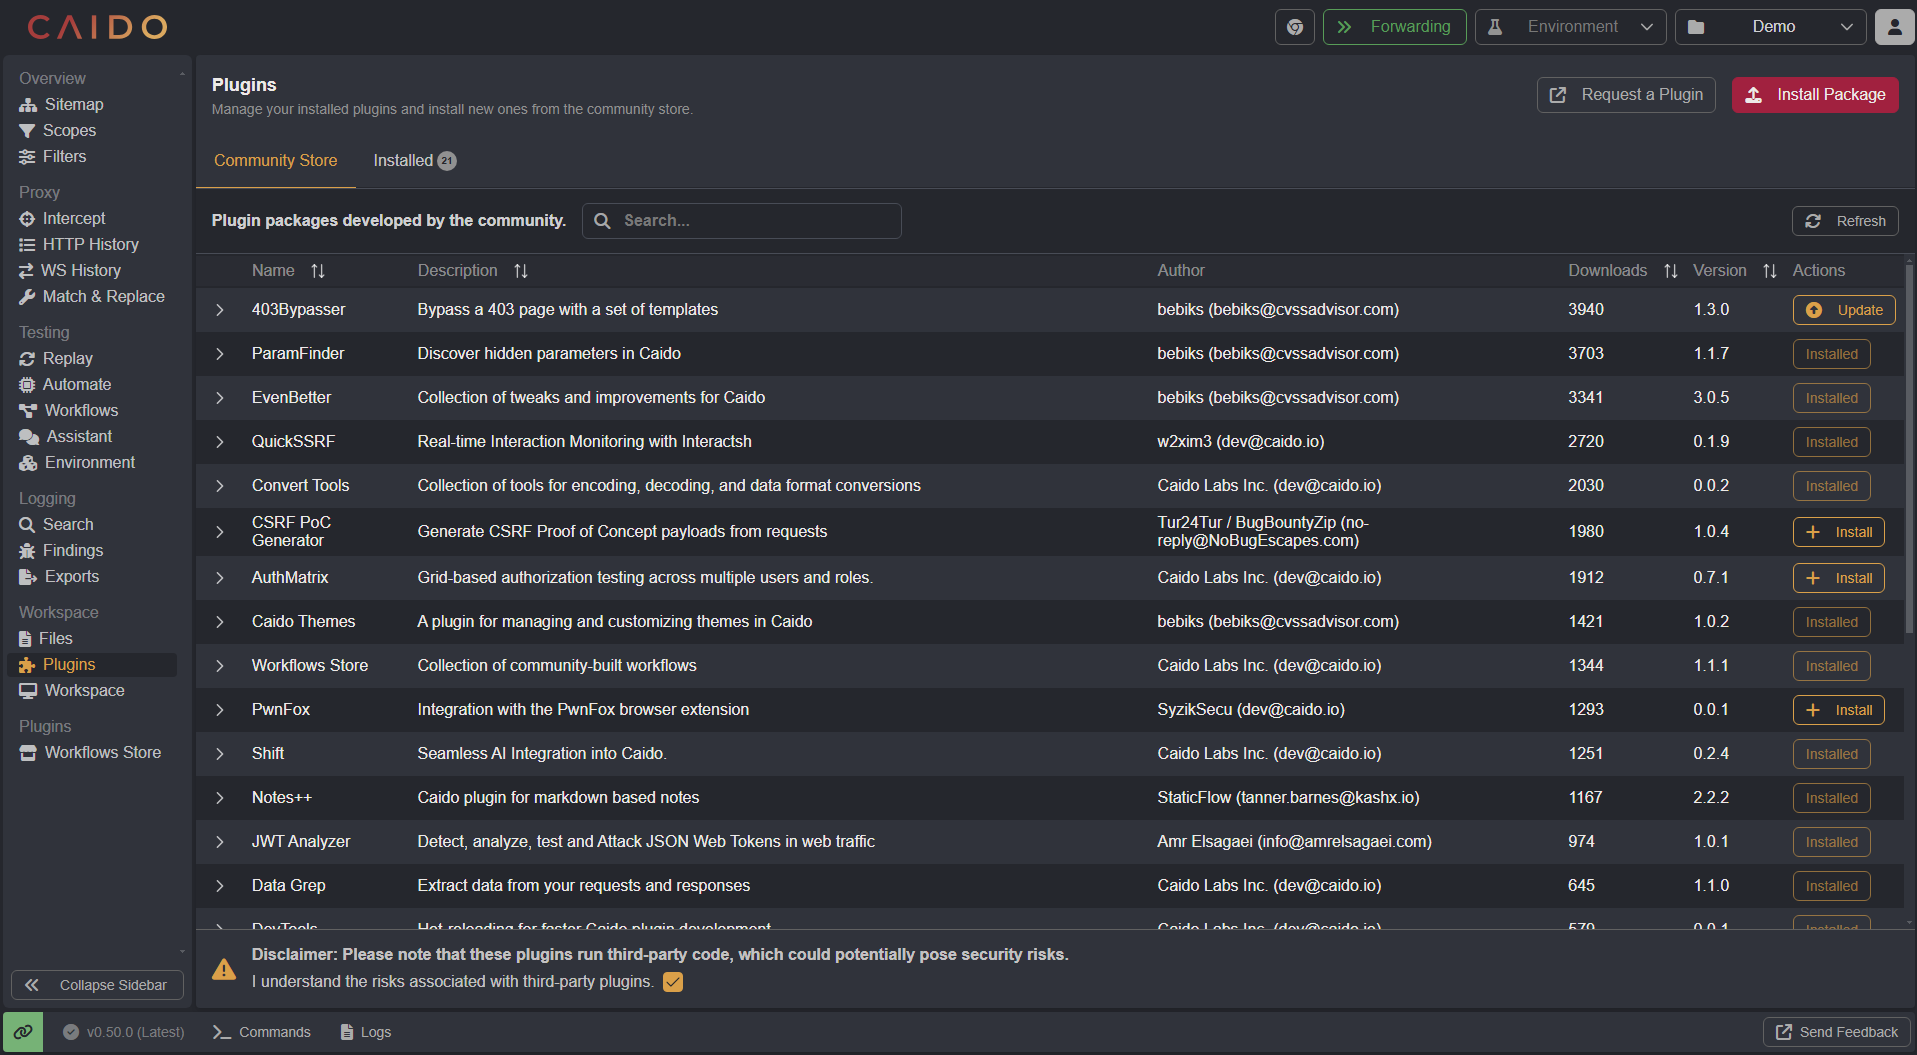
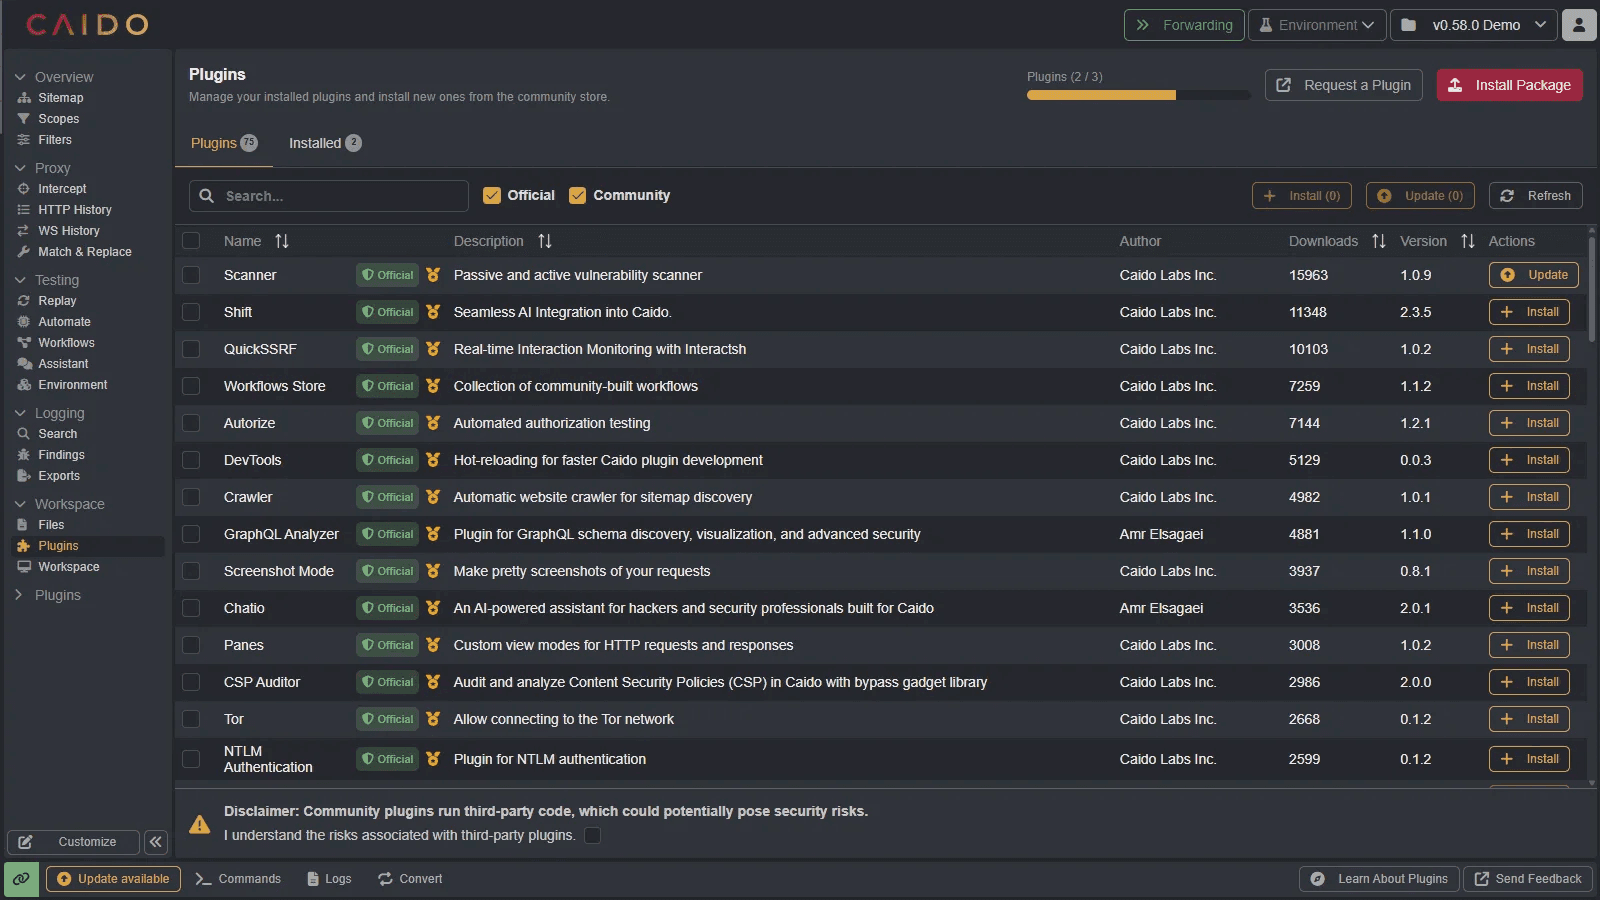
Added an Browse Plugins section and updated the image of the Plugin I… (#394)
* Added an Browse Plugins section and updated the image of the Plugin Interface

* Optimised images with calibre/image-actions

* Added HTTPQL headers clause in user documentation (#392)

* Added HTTPQL headers clause in user documentation

* Removed trailing whitespaces at the end-of-line

* Added changes suggested by Copilot

* Optimised images with calibre/image-actions

---------

diff --git a/src/app/guides/plugins_installing.md b/src/app/guides/plugins_installing.md
@@ -4,8 +4,13 @@ description: "A step-by-step guide to installing plugins in Caido from the Commu
 
 # Installing Plugins
 
+To install a plugin, either:
+
+- **Click** on the <code><Icon icon="fas fa-upload" /> Install Package</code> button and select a plugin `plugin_package.zip` file.
+- Or **click** on the `+ Install` button associated with a plugin available in the Community Store.
+
 ::: warning
-Plugins available in the Community Store run third-party code, which could potentially pose security risks. Before you can access the Community Store, you must **click** on the _"I understand the risks associated with third-party plugins."_ checkbox to acknowlege and accept the risk.
+Plugins available in the Community Store run third-party code, which could potentially pose security risks. Before you can access the Community Store, you must **click** on the _"I understand the risks associated with third-party plugins."_ checkbox to acknowledge and accept the risk.
 
 <img alt="The risk disclaimer." src="/_images/plugins_disclaimer.png" center>
 
@@ -15,11 +20,17 @@ Plugins available in the Community Store run third-party code, which could poten
 [Learn how to create your own Caido plugins!](https://developer.caido.io/)
 :::
 
-To install a plugin, either:
-
-- **Click** on the <code><Icon icon="fas fa-upload" /> Install Package</code> button and select a plugin `plugin_package.zip` file.
-- Or **click** on the `+ Install` button associated with a plugin available in the Community Store.
-
 <div class="video small">
   <iframe src="https://www.youtube.com/embed/lO-WB_cXPfk?si=kou_6r8GDF1yl5Jm" title="YouTube video player." frameborder="0"></iframe>
 </div>
+
+## Browse Plugins
+
+The Plugins page helps you discover and compare plugins before installing them.
+
+- Look for the Official badge to identify plugins maintained by Caido.
+- Review each row's quality rating, author, download count, and version.
+- Use the Official and Community filters to narrow the list.
+- Select multiple plugins, then install or update them in one action.
+
+<img alt="The Plugins interface" src="/_images/plugins_interface.png" center/>
